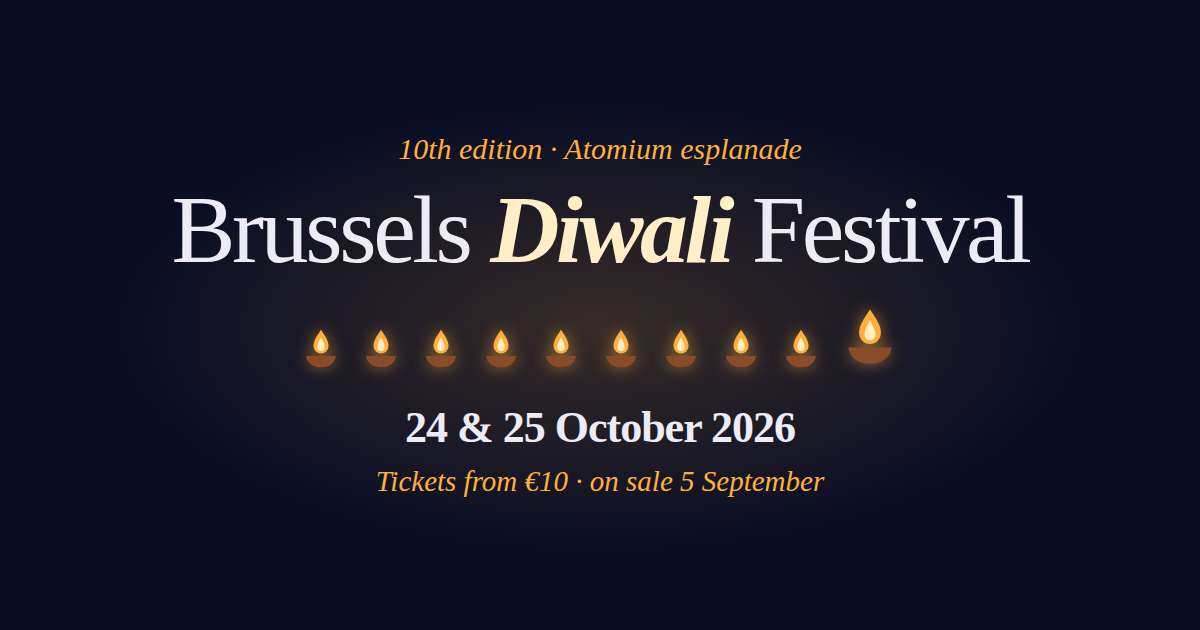
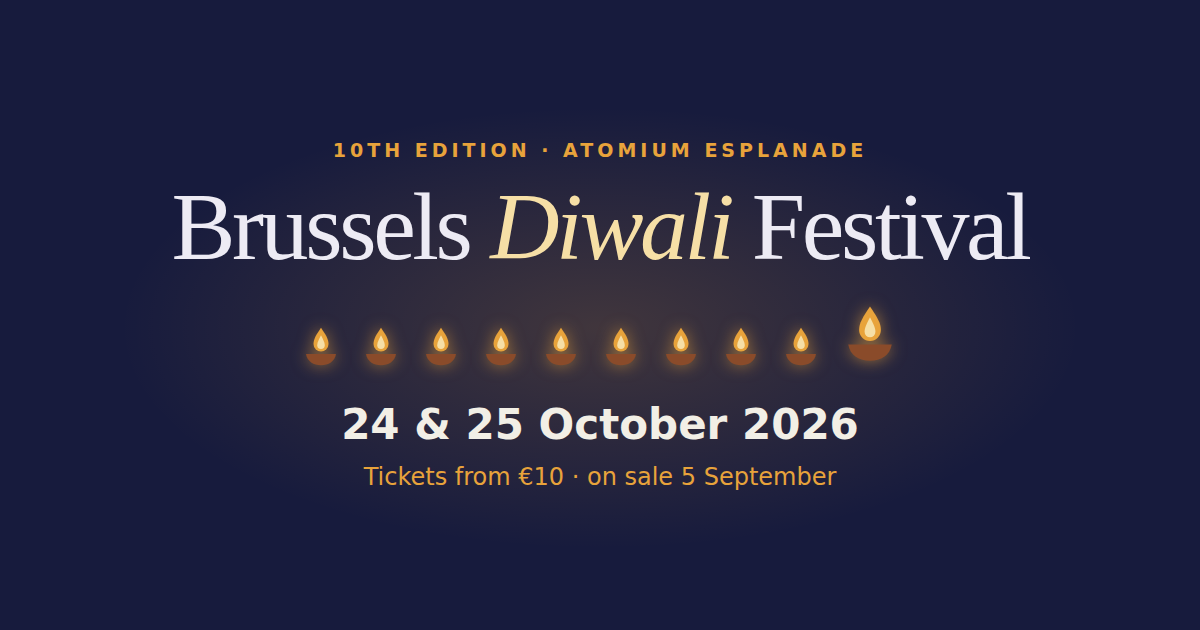
Update site

diff --git a/diwali-holding/index.html b/diwali-holding/index.html
@@ -17,7 +17,7 @@
 <meta name="twitter:card" content="summary_large_image">
 
 <link rel="icon" type="image/svg+xml" href="/favicon.svg">
-<meta name="theme-color" content="#0A0E24">
+<meta name="theme-color" content="#171B3D">
 <link rel="preconnect" href="https://fonts.googleapis.com">
 <link rel="preconnect" href="https://fonts.gstatic.com" crossorigin>
 <link href="https://fonts.googleapis.com/css2?family=Fraunces:opsz,wght@9..144,400;9..144,600&family=Karla:wght@400;500;700&family=Space+Mono:wght@400;700&display=swap" rel="stylesheet">
@@ -59,13 +59,13 @@
 
 <style>
 :root{
-  --night:#0A0E24;
-  --night-2:#121838;
+  --night:#171B3D;
+  --night-2:#232A54;
   --line:rgba(143,163,200,.18);
   --steel:#8496BE;
   --white:#EDEBF4;
-  --flame:#FFB03A;
-  --flame-core:#FFEFC7;
+  --flame:#E8A33B;
+  --flame-core:#F6DFA6;
   --clay:#8A4B2A;
   --clay-dim:#242B4E;
 

diff --git a/static/style.css b/static/style.css
@@ -51,7 +51,7 @@ a:hover{border-bottom-color:var(--rust)}
   padding:10px 14px;z-index:99;border:none}
 
 /* ---------------- the tricolour rule: the structural device ------------- */
-.tri{display:flex;flex-direction:column;width:min(340px,60%);margin:0}
+.tri{display:flex;flex-direction:column;width:min(340px,60%);margin:0;opacity:.5}
 .tri i{display:block;height:3px}
 .tri i:nth-child(1){background:var(--saffron)}
 .tri i:nth-child(2){background:var(--rule)}
